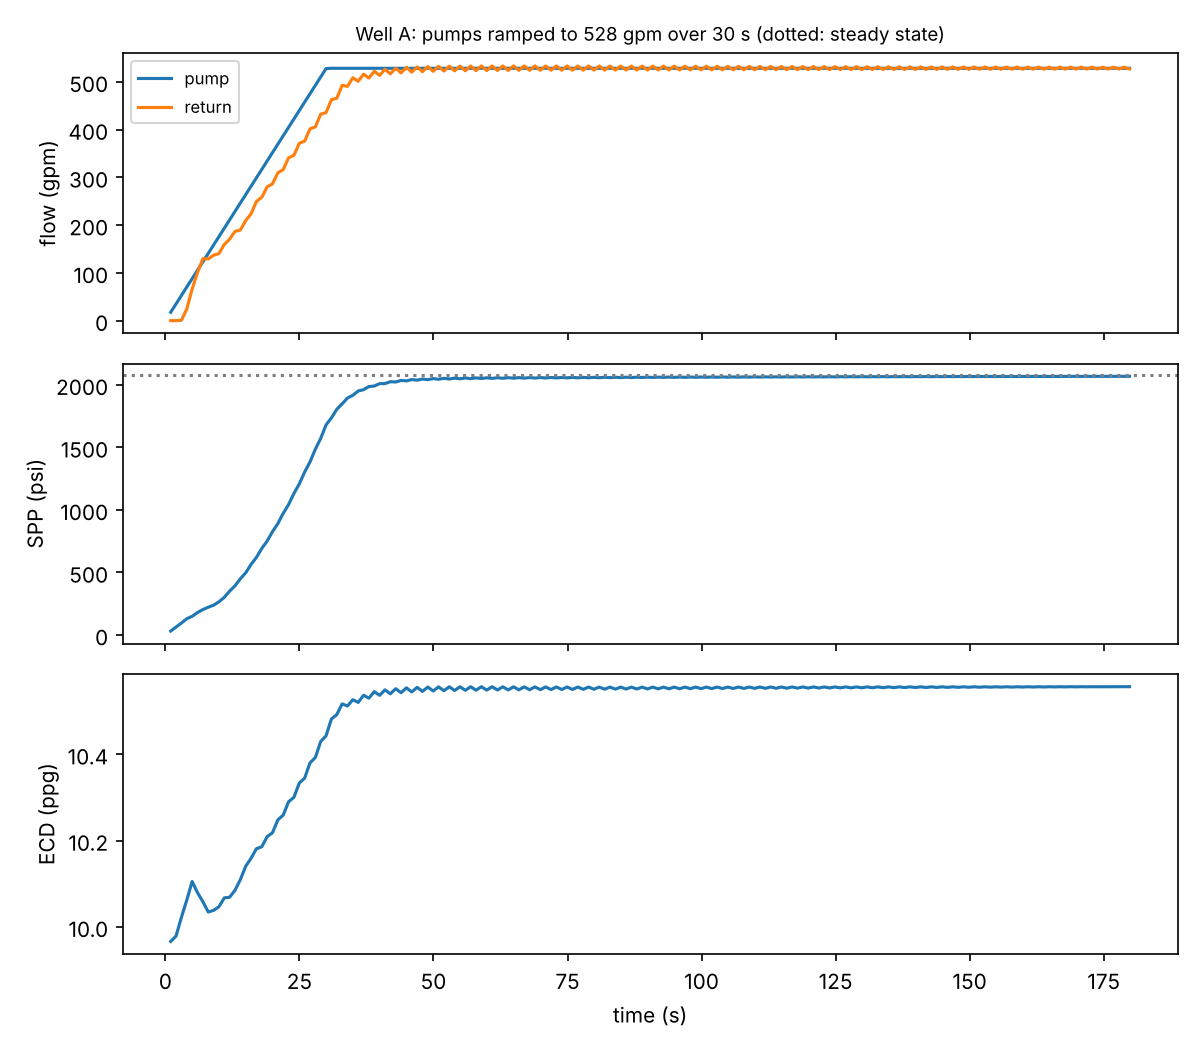
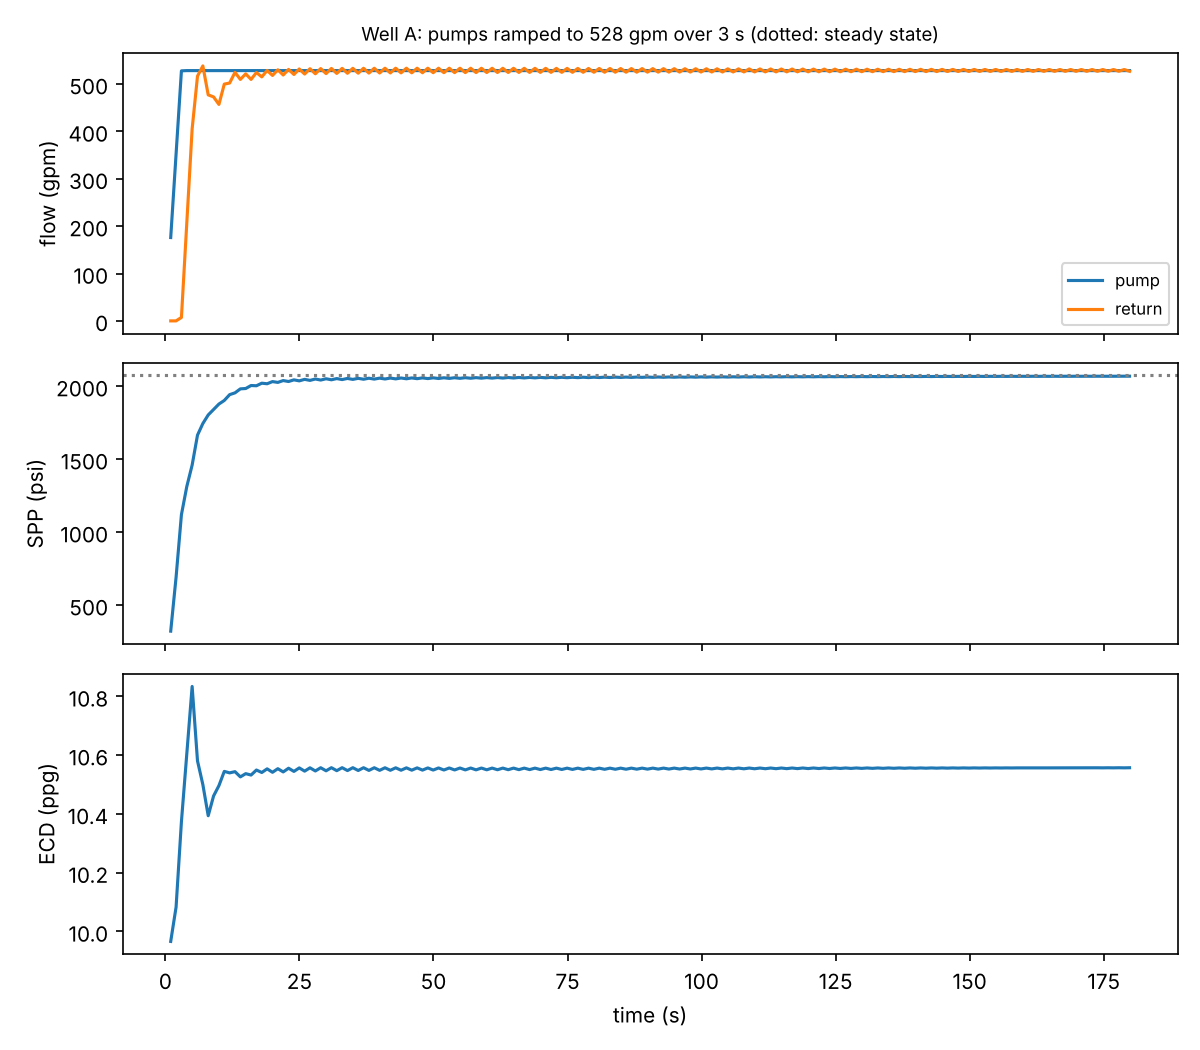
Ramps only for set points without a controller; short default ramp times
Correction to the ramp defaults: set points that feed a controller are
not ramped, the controller shapes the response.
- omega_sp (top-drive PI / SoftTorque / ZTorque) and wob_sp (autodriller):
  0 s (were 5 s and 10 s)
- open-loop inputs keep short ramps: prescribed top-drive speed 1 s, block
  velocity 2 s, pump rate 3 s (was 30 s), inlet temperature 3 s (was 60 s)
- motor torque from an external controller: not ramped
The Well A controller example no longer needs its ramp pinned (stepped
set point: stiff and SoftTorque stick-slip, ZTorque suppresses it).
Hydraulics pump-start figure regenerated (3 s ramp); docs and UI updated.

Claude-Session: https://claude.ai/code/session_01BdbRA8vMTfSkNjxRGyxPeC

diff --git a/src/DrillPyze/ui/static/app.js b/src/DrillPyze/ui/static/app.js
@@ -132,15 +132,14 @@ const SECTIONS = [
       ['parameters.hydraulics.dx', 'Hydraulics cell length', 'length'],
     ] },
   { title: 'Ramp times',
-    note: () => 'Every set-point change is approached linearly over its ramp time (0 = in one time step).',
+    note: () => 'Inputs without a controller approach a new value linearly over their ramp time (0 = in one time step). Set points that feed a controller (RPM, autodriller WOB) are not ramped by default.',
     fields: [
-      ['parameters.ramps.omega_sp', 'RPM set point', 's'],
       ['parameters.ramps.omega_td', 'Prescribed top-drive speed', 's'],
       ['parameters.ramps.v_block', 'Block speed', 's'],
-      ['parameters.ramps.wob_sp', 'WOB set point', 's'],
       ['parameters.ramps.flow_rate', 'Pump rate', 's'],
       ['parameters.ramps.inlet_temperature', 'Inlet temperature', 's'],
-      ['parameters.ramps.motor_torque', 'External motor torque', 's'],
+      ['parameters.ramps.omega_sp', 'RPM set point (controlled; default none)', 's'],
+      ['parameters.ramps.wob_sp', 'WOB set point (controlled; default none)', 's'],
     ] },
   { title: 'Formation', when: () => !!state.cfg.formation,
     note: () => 'Layers by top depth. CCS = UCS(T) + Δp·(1+sin φ)/(1−sin φ). Low-porosity rock (≤ 5 %) uses the undrained (Skempton) pore pressure; ≥ 20 % uses the drained one; linear blend between.',

diff --git a/src/DrillPyze/parameters.py b/src/DrillPyze/parameters.py
@@ -120,18 +120,23 @@ class TopDriveParameters:
 @dataclass
 class RampParameters:
     """
-    Ramp times (s) for set-point changes.  A new set point is approached
-    linearly from the current value over its ramp time, so no input changes
-    instantly (0 = instant).  Ramps are evaluated inside the time stepping,
-    so pausing and resuming stays exact.
+    Ramp times (s) for set-point changes on inputs that have no controller.
+    Such a set point approaches a new value linearly from its current value
+    over its ramp time (0 = instant); ramps are evaluated inside the time
+    stepping, so pausing and resuming stays exact.
+
+    Set points that feed a controller -- the top-drive speed set point
+    (``omega_sp``, PI / SoftTorque / ZTorque) and the autodriller WOB set
+    point (``wob_sp``) -- are not ramped by default: the controller shapes the
+    response.  Their entries exist only for studies of set-point profiling.
     """
-    omega_sp: float = 5.0           # top-drive speed set point (controller)
+    omega_sp: float = 0.0           # controlled (top-drive speed controller): no ramp
     omega_td: float = 1.0           # prescribed top-drive speed (1 s = linear between 1 s samples)
-    motor_torque: float = 0.0       # external motor torque command (an actuator signal, not a set point)
-    v_block: float = 2.0            # block velocity
-    wob_sp: float = 10.0            # autodriller WOB set point
-    flow_rate: float = 30.0         # pump rate
-    inlet_temperature: float = 60.0 # mud inlet temperature
+    motor_torque: float = 0.0       # torque command from an external controller: no ramp
+    v_block: float = 2.0            # block velocity (open loop)
+    wob_sp: float = 0.0             # controlled (autodriller): no ramp
+    flow_rate: float = 3.0          # pump rate (open loop)
+    inlet_temperature: float = 3.0  # mud inlet temperature (open loop)
 
     @classmethod
     def instant(cls):

diff --git a/examples/well_a_controllers.py b/examples/well_a_controllers.py
@@ -10,8 +10,7 @@ matplotlib.use('Agg')
 import matplotlib.pyplot as plt
 
 from DrillPyze import (Survey, Component, Drillstring, Wellbore, Fluid, Simulation,
-                       ModelParameters, FrictionParameters, DampingParameters, RampParameters,
-                       units, controllers)
+                       ModelParameters, FrictionParameters, DampingParameters, units, controllers)
 
 # --- 1. import / describe the well and string (SI) ------------------------
 survey = Survey(md=[0, 1500, 2100, 3000], inc=[0, 0, 60, 60], azi=[0, 0, 0, 0])
@@ -26,9 +25,6 @@ params = ModelParameters(
     friction=FrictionParameters(mu_static_cased=0.40, mu_kinetic_cased=0.22,
                                 mu_static_open=0.45, mu_kinetic_open=0.25, omega_c=1.0),
     damping=DampingParameters(k_t=0.1, k_a=0.1),
-    # a fast (1 s) start-up ramp excites off-bottom stick-slip for the controllers to act on;
-    # with the default 5 s ramp the string breaks free gently and the stiff controller stays at 60 rpm
-    ramps=RampParameters(omega_sp=1.0),
 )
 
 # first torsional mode for SoftTorque/ZTorque tuning: f ~ c / (4 L)

diff --git a/src/DrillPyze/simulation.py b/src/DrillPyze/simulation.py
@@ -540,9 +540,12 @@ class Simulation:
           ``flow_rate``          pump rate (m^3/s)
           ``inlet_temperature``  mud temperature entering the drillstring (C)
 
-        Every set point approaches a new value linearly over its ramp time
-        (``params.ramps``; 0 = instant), starting from its current value -- or,
-        when it takes over from another mode, from the present physical value.
+        Inputs without a controller (prescribed speed, block velocity, pump
+        rate, inlet temperature) approach a new value linearly over a short
+        ramp time (``params.ramps``; 0 = instant), starting from the current
+        value -- or, when taking over from another mode, from the present
+        physical value.  Controlled set points (``omega_sp``, ``wob_sp``) are
+        not ramped by default: the controller shapes the response.
 
         Returns a dict of the latest scalar values.
         """

diff --git a/docs/derivation/hydraulics_verification.py b/docs/derivation/hydraulics_verification.py
@@ -95,7 +95,7 @@ axs[0].set_ylabel('flow (gpm)'); axs[0].legend(fontsize=8)
 axs[1].plot(r.time, r.spp / PSI); axs[1].axhline(ref.state()['spp'] / PSI, ls=':', c='gray')
 axs[1].set_ylabel('SPP (psi)')
 axs[2].plot(r.time, r.ecd / PPG); axs[2].set_ylabel('ECD (ppg)'); axs[2].set_xlabel('time (s)')
-axs[0].set_title('Well A: pumps ramped to %.0f gpm over 30 s (dotted: steady state)' % (Q / GPM), fontsize=9)
+axs[0].set_title('Well A: pumps ramped to %.0f gpm over %.0f s (dotted: steady state)' % (Q / GPM, s.params.ramps.flow_rate), fontsize=9)
 fig.tight_layout(); fig.savefig(os.path.join(FIG, 'hydraulics_pump_start.png'), dpi=150)
 
 # 4. surge and swab -----------------------------------------------------------

diff --git a/docs/derivation/hydraulics.md b/docs/derivation/hydraulics.md
@@ -256,7 +256,7 @@ they are 2,156, 1,889 and 1,936 psi.
 | water hammer, 100 gpm step, 1 cP mud | Joukowsky ρcΔQ/A = 1.408 MPa | 1.421 MPa (+0.9%) |
 | pressure front at the bit | L/c = 2.083 s | 2.08 s |
 | surge / swab, ±0.5 m/s, pumps off, Bingham mud | sign; symmetry | +213 / −209 psi (±0.40 ppg EMW) |
-| Well A pump start in the full simulation | discrete steady state | SPP 2,068 vs 2,075 psi after 180 s (thermal still cooling the mud) |
+| Well A pump start (3 s ramp) in the full simulation | discrete steady state | SPP 2,069 vs 2,075 psi after 180 s (thermal still cooling the mud); ECD overshoots to 10.83 ppg before settling at 10.56 ppg |
 | set-point ramps | linear in time | exact; a ramp taken over from another mode starts from the present value |
 | pause / resume with hydraulics | bit-identical | exact |
 
@@ -267,23 +267,30 @@ Figures: `docs/figures/hydraulics_water_hammer.png`, `hydraulics_pump_start.png`
 
 ## 6. Set-point ramps
 
-Every set point approaches a new value linearly over its ramp time
-(`ModelParameters.ramps`); 0 means instant. Kernel inputs are evaluated at
-every time step inside the kernel, from a table of (start value, start time,
-ramp time, target). Pump rate and inlet temperature are evaluated at each slow
-tick and inside the hydraulic substeps. When a set point takes over from
-another mode, for example `omega_sp` after `omega_td`, its ramp starts from
-the present physical value, which makes the transfer bumpless.
+Inputs that have no controller approach a new value linearly over a short ramp
+time (`ModelParameters.ramps`); 0 means instant. Set points that feed a
+controller are not ramped, because the controller shapes the response.
 
-| input | default ramp | note |
-|---|---|---|
-| `omega_sp` (controller speed set point) | 5 s | replaces the former 60 rpm/s rate limit |
-| `omega_td` (prescribed top-drive speed) | 1 s | linear interpolation between 1 s field samples |
-| `v_block` | 2 s | the optional block-acceleration limit still applies on top |
-| `wob_sp` | 10 s | |
-| `flow_rate` | 30 s | the pumps start at t = 0 and ramp to the initial rate |
-| `inlet_temperature` | 60 s | |
-| `motor_torque` | 0 s | an actuator command from an external controller, not a set point |
+Kernel inputs are evaluated at every time step inside the kernel, from a table
+of (start value, start time, ramp time, target). Pump rate and inlet
+temperature are evaluated at each slow tick and inside the hydraulic
+substeps. When an input takes over from another mode, for example `omega_td`
+after `omega_sp`, its ramp starts from the present physical value, which makes
+the transfer bumpless.
+
+| input | controller | default ramp | note |
+|---|---|---|---|
+| `omega_sp` (speed set point) | top-drive PI / SoftTorque / ZTorque | none | the controller shapes the response |
+| `wob_sp` (WOB set point) | autodriller | none | |
+| `omega_td` (prescribed top-drive speed) | none | 1 s | linear interpolation between 1 s field samples |
+| `v_block` (block velocity) | none | 2 s | the optional block-acceleration limit still applies on top |
+| `flow_rate` (pump rate) | none | 3 s | the pumps start at t = 0 and ramp to the initial rate |
+| `inlet_temperature` | none | 3 s | |
+| `motor_torque` | external controller | none | an actuator command, not a set point |
+
+The ramp times of the controlled set points can still be set for studies of
+set-point profiling. They replace the former 60 rpm/s rate limit on
+`omega_sp`.
 
 The verification tests that check step responses against analytic results
 (wave arrival, free decay) use `RampParameters.instant()`.

diff --git a/docs/derivation/README.md b/docs/derivation/README.md
@@ -686,13 +686,13 @@ $v(0) = \beta_{a,1} + q_d(0)/Z_a$. For example, with the bit on bottom at
 0 rpm, WOB levels off at the buoyed string weight less friction, instead of
 growing without limit.
 
-**Set-point ramps.** Every input approaches a new value linearly over its
-ramp time (`ModelParameters.ramps`). The ramp is evaluated inside the time
-stepping from a table of (start value, start time, ramp time, target). This
-holds for the speed set point, the prescribed top-drive speed, the block
-velocity, the WOB set point, the pump rate and the inlet temperature. A set
-point that takes over from another mode starts from the present physical
-value. See [`hydraulics.md`](hydraulics.md) §6.
+**Set-point ramps.** Inputs without a controller approach a new value
+linearly over a short ramp time (`ModelParameters.ramps`). Defaults: the
+prescribed top-drive speed 1 s, the block velocity 2 s, the pump rate and the
+inlet temperature 3 s. The ramp is evaluated inside the time stepping from a
+table of (start value, start time, ramp time, target). Set points that feed a
+controller (the speed set point of §7, the autodriller WOB set point) are not
+ramped. See [`hydraulics.md`](hydraulics.md) §6.
 
 **Hydraulics.** Standpipe pressure, bottomhole pressure and ECD come from
 [`hydraulics.md`](hydraulics.md): chapter 7 steady losses, plus single-phase
@@ -793,7 +793,7 @@ friction coupling of §5.2.
 
 ## 7. Top-drive controllers (Aarsnes, di Meglio & Shor 2018)
 
-All three industrial controllers fit one block diagram. A ramped set
+All three industrial controllers fit one block diagram. A set
 point $\omega_{SP}$, a filtered measured speed $\hat\omega_0$ (time constant
 $t_{en}$) and an optional impedance feedback of band-pass filtered pipe torque
 give

diff --git a/README.md b/README.md
@@ -127,9 +127,11 @@ Other model components:
     cells with volume-averaged sections, ρ(T, p), a pump inlet, a pressure
     outlet and the bit nozzles between the two flow paths.
   * **Coupling:** updated every ~1 s. Its BHP feeds the rock-strength model.
-* **Set-point ramps:** every set point (RPM, prescribed speed, block speed,
-  WOB, pump rate, inlet temperature) approaches a new value linearly over a
-  ramp time (`ModelParameters.ramps`), so no input changes instantly.
+* **Set-point ramps:** inputs without a controller approach a new value
+  linearly over a short ramp time (`ModelParameters.ramps`). Defaults:
+  prescribed top-drive speed 1 s, block speed 2 s, pump rate and inlet
+  temperature 3 s. Set points that feed a controller (RPM, autodriller WOB)
+  step, and the controller shapes the response.
 * **Damping** (derivation §5.6): no tuning knob is needed; the coefficients
   come from the mud report and the string.
   * **F1, mud:** steady laminar Couette drag on the full velocity, plus a
